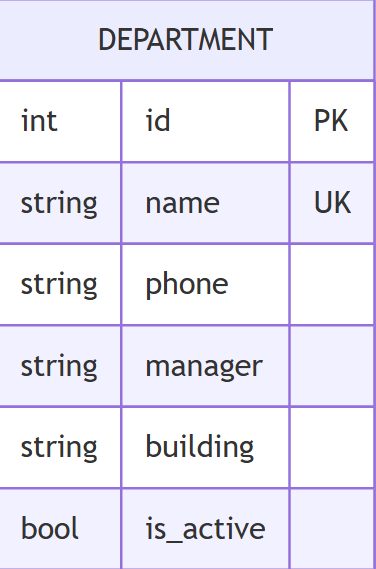
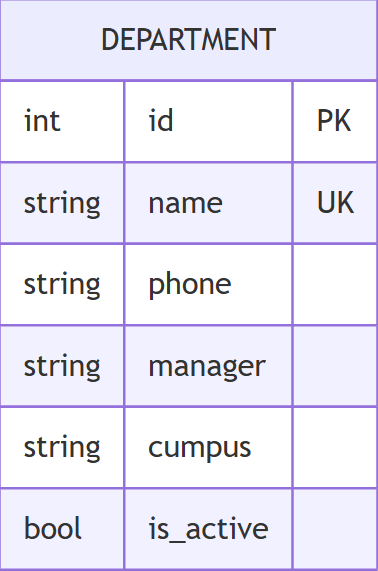
.

diff --git a/S5/models.py b/S5/models.py
@@ -10,7 +10,7 @@ class Department(Model):
     """Модель отделения/факультета (без NULL-полей)"""
     name = CharField(max_length=100, unique=True, null=False, verbose_name="Название отделения")
     phone = CharField(max_length=20, null=False, default='', verbose_name="Телефон")
-    building = CharField(max_length=50, null=False, default='', verbose_name="Корпус")
+    campus = CharField(max_length=50, null=False, default='', verbose_name="Корпус")
     is_active = BooleanField(null=False, default=True, verbose_name="Активно")
 
     class Meta:
@@ -26,20 +26,20 @@ def init_db():
 class DepartmentCreate(BaseModel):
     name: str = Field(..., max_length=100, description="Название отделения")
     phone: Optional[str] = Field('', max_length=20, description="Телефон")
-    building: Optional[str] = Field('', max_length=50, description="Корпус")
+    campus: Optional[str] = Field('', max_length=50, description="Корпус")
     is_active: bool = Field(True, description="Активно")
 
 class DepartmentUpdate(BaseModel):
     name: Optional[str] = Field(None, max_length=100, description="Название отделения")
     phone: Optional[str] = Field(None, max_length=20, description="Телефон")
-    building: Optional[str] = Field(None, max_length=50, description="Корпус")
+    campus: Optional[str] = Field(None, max_length=50, description="Корпус")
     is_active: Optional[bool] = Field(None, description="Активно")
 
 class DepartmentOut(BaseModel):
     id: int
     name: str
     phone: str
-    building: str
+    campus: str
     is_active: bool
 
 @asynccontextmanager
@@ -69,7 +69,7 @@ def create_department(dept: DepartmentCreate):
     new_dept = Department.create(
         name=dept.name,
         phone=dept.phone or '',
-        building=dept.building or '',
+        campus=dept.campus or '',
         is_active=dept.is_active
     )
     db.close()
@@ -89,7 +89,7 @@ def get_department(dept_id: int):
 @app.get("/departments", response_model=List[DepartmentOut])
 def list_departments(
     name: Optional[str] = None,
-    building: Optional[str] = None,
+    campus: Optional[str] = None,
     is_active: Optional[bool] = None,
     limit: int = 100,
     offset: int = 0
@@ -98,8 +98,8 @@ def list_departments(
     query = Department.select()
     if name:
         query = query.where(Department.name.contains(name))
-    if building:
-        query = query.where(Department.building.contains(building))
+    if campus:
+        query = query.where(Department.campus.contains(campus))
     if is_active is not None:
         query = query.where(Department.is_active == is_active)
     result = list(query.offset(offset).limit(limit))
@@ -120,8 +120,8 @@ def update_department(dept_id: int, dept: DepartmentUpdate):
         update_data['name'] = dept.name
     if dept.phone is not None:
         update_data['phone'] = dept.phone
-    if dept.building is not None:
-        update_data['building'] = dept.building
+    if dept.campus is not None:
+        update_data['campus'] = dept.campus
     if dept.is_active is not None:
         update_data['is_active'] = dept.is_active
     if update_data:

diff --git a/S5/doc.md b/S5/doc.md
@@ -9,7 +9,7 @@
 |----------|----------------|-----|-------------|-----------------------|
 | `name` | Да | str | длина ≤ 100, уникально | — |
 | `phone` | Нет | str | длина ≤ 20 | `''` (пустая строка) |
-| `building` | Нет | str | длина ≤ 50 | `''` (пустая строка) |
+| `cumpus` | Нет | str | длина ≤ 50 | `''` (пустая строка) |
 | `is_active` | Нет | bool | — | `True` |
 
 **Уникальные комбинации параметров:**  
@@ -22,7 +22,7 @@
 | `id` | int |
 | `name` | str |
 | `phone` | str |
-| `building` | str |
+| `cumpus` | str |
 | `is_active` | bool |
 
 ## Изменить сущность по ID
@@ -33,7 +33,7 @@
 |----------|----------------|-----|-------------|-----------------------|
 | `name` | Нет | str | длина ≤ 100, уникально | текущее значение |
 | `phone` | Нет | str | длина ≤ 20 | текущее значение |
-| `building` | Нет | str | длина ≤ 50 | текущее значение |
+| `cumpus` | Нет | str | длина ≤ 50 | текущее значение |
 | `is_active` | Нет | bool | True/False | текущее значение |
 
 ### 4. Информация, возвращаемая при успешном изменении
@@ -43,7 +43,7 @@
 | `id` | int |
 | `name` | str |
 | `phone` | str |
-| `building` | str |
+| `cumpus` | str |
 | `is_active` | bool |
 
 ## Удалить сущность по ID
@@ -59,7 +59,7 @@
 | `id` | int |
 | `name` | str |
 | `phone` | str |
-| `building` | str |
+| `cumpus` | str |
 | `is_active` | bool |
 
 ## Получить список сущностей по заданным параметрам
@@ -69,7 +69,7 @@
 | Параметр | Тип | Описание |
 |----------|-----|-----------|
 | `name` | str | Поиск по части названия отделения |
-| `building` | str | Поиск по корпусу (содержит подстроку) |
+| `cumpus` | str | Поиск по корпусу (содержит подстроку) |
 | `is_active` | bool | Фильтр по активности |
 | `limit` | int | Максимум записей (по умолчанию 100) |
 | `offset` | int | Пагинация (по умолчанию 0) |
@@ -81,7 +81,7 @@
 | `id` | int |
 | `name` | str |
 | `phone` | str |
-| `building` | str |
+| `cumpus` | str |
 | `is_active` | bool |
 
 ## ER-диаграмма
